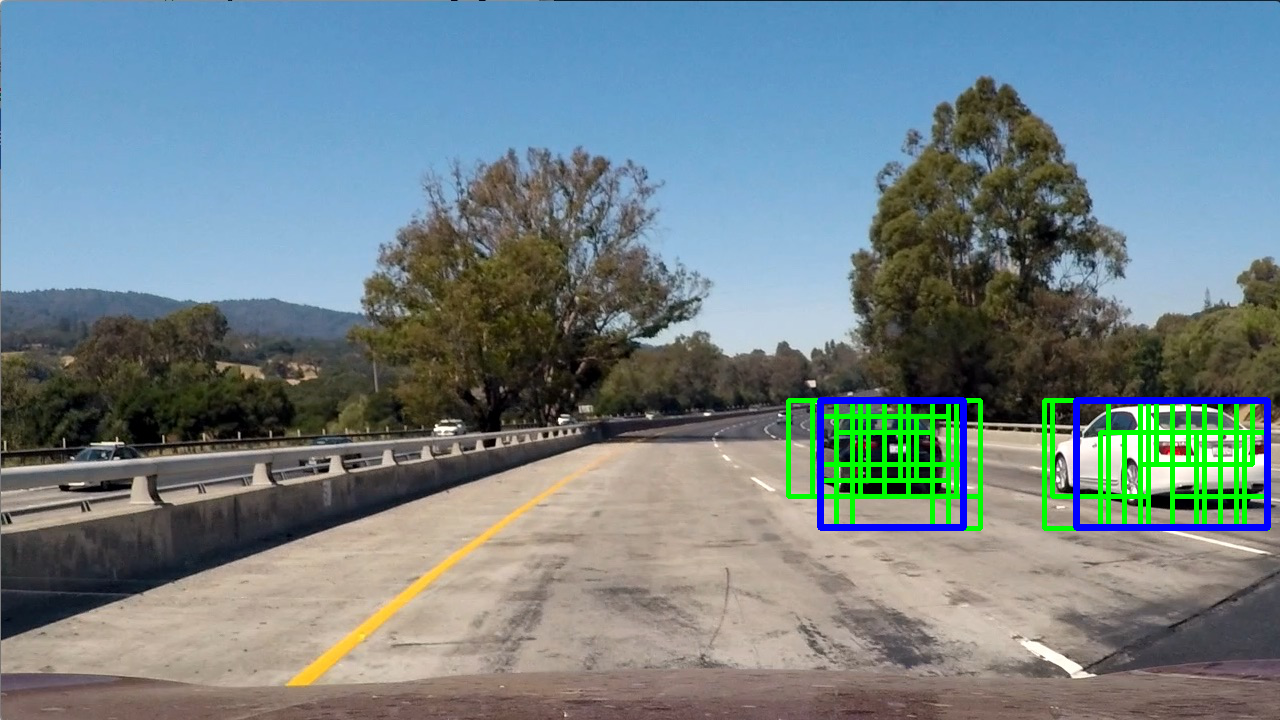
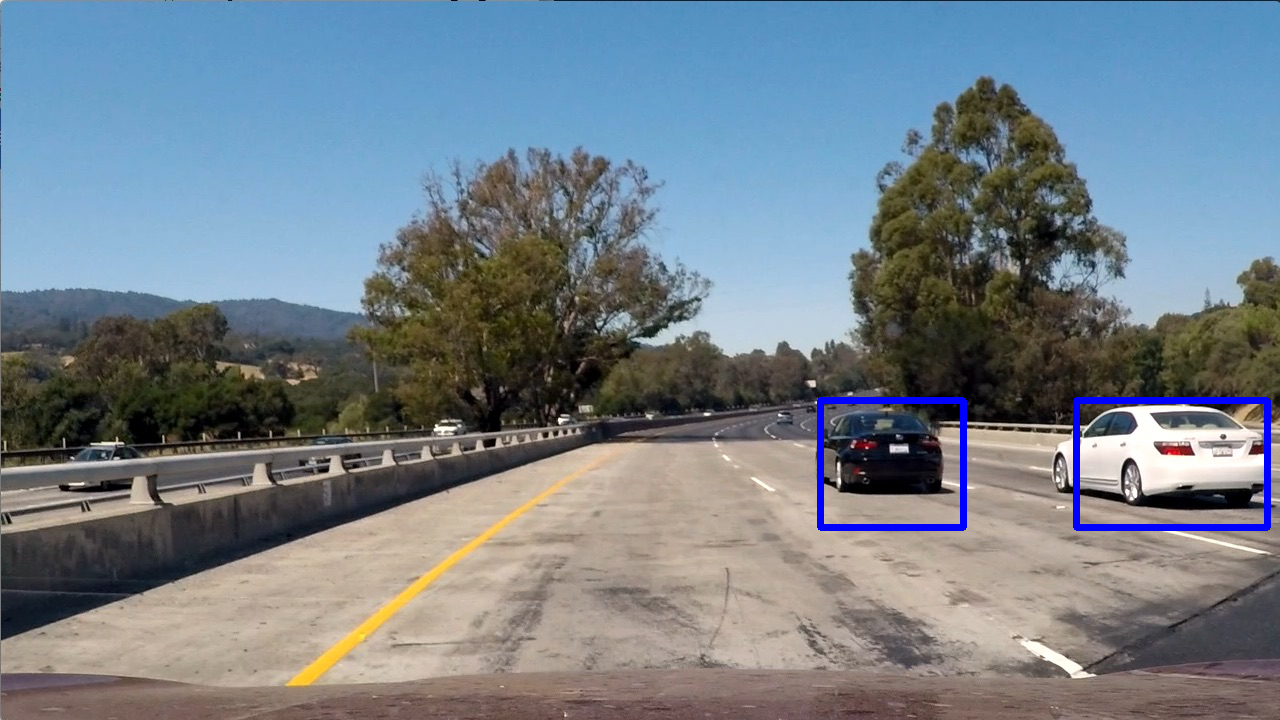
Writeup

Changed region(s): [[0.8125, 0.55, 1.0, 0.7639], [0.5938, 0.55, 0.7812, 0.7333]]

diff --git a/pipeline.py b/pipeline.py
@@ -24,9 +24,6 @@ class Pipeline(object):
 
         out_img = self._detector.detect_cars(image)
 
-        if self._verbose:
-            save_image(f'{self._filename_no_ext}.jpg', out_img, out_dir=OUT_DIR)
-
         return out_img
 
     @staticmethod
@@ -46,6 +43,10 @@ class ImagePipeline(Pipeline):
         image = cv2.imread(args.filename)
         image = cv2.cvtColor(image, cv2.COLOR_BGR2RGB)
         self._image = image
+
+    def process_image(self, image):
+        out_img = super().process_image(image)
+        save_image(f'{self._filename_no_ext}.jpg', out_img, out_dir=OUT_DIR)
 
     def run(self):
         self.process_image(self._image)
@@ -81,7 +82,7 @@ if __name__ == '__main__':
     parser.add_argument("--detector", choices=['svm', 'nn'], help="Detector mode", default='svm')
     parser.add_argument("--svm_file", help="Path to the svm file", default='svm.pkl')
     parser.add_argument("--weight_file", help="Path to the model file", default='model.h5')
-    parser.add_argument("--verbose", action="store_true", help="Enable verbosity")
+    parser.add_argument("--verbose", action="store_true", default=False, help="Enable verbosity")
 
     args = parser.parse_args()
 

diff --git a/detector.py b/detector.py
@@ -81,7 +81,8 @@ class SvmDetector(Detector):
                 t = (time.time() - feature_extraction_start)
                 logging.info(f'Region: {bounds}, Scale: {scale}, Time: {t}s')
 
-        draw_img = draw_boxes(img, windows)
+        if self._verbose:
+            draw_img = draw_boxes(img, windows)
 
         heat = np.zeros_like(img[:, :, 0]).astype(np.float)
 
